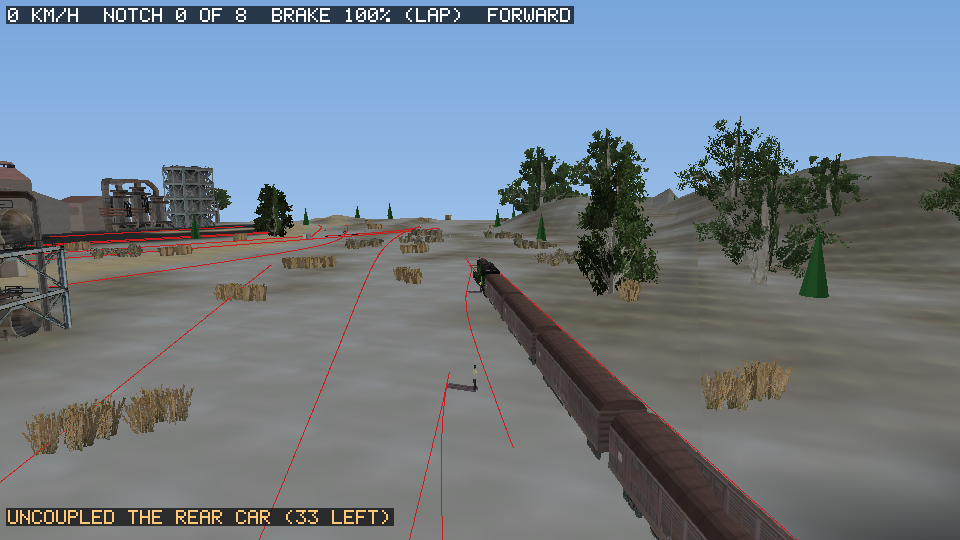
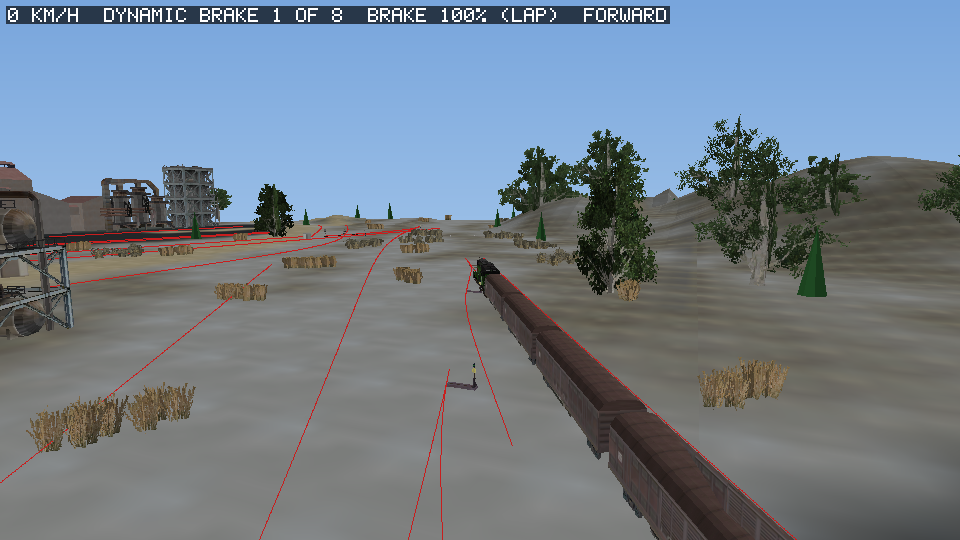
Coupling review: check ChatGPT's fixes; re-tune the documented coupling run and re-render its screenshots

diff --git a/ROADMAP.md b/ROADMAP.md
@@ -106,6 +106,7 @@ roadmap existed were filled in afterwards from the chat history.
 
 | Date | Overall | Change |
 |---|---:|---|
+| 2026-11-13 | 42% | No step change. Coupling review fixes (ChatGPT's findings and fixes, built and checked by me): a wagons-only train's borrowed traction is now a train-level aid only, so cars left behind stay unpowered and keep their real mass and brakes; contact is searched only from the end the train moves toward (a near train at the other end could hide one ahead); signal-block occupancy runs between the real buffer ends. 3 new regression tests; all 345 unit tests and the CLI tests pass with sanitizers. The documented coupling run was re-tuned (the wagons now coast further on their own resistance) and its screenshots re-rendered. |
 | 2026-11-13 | 42% | Step 13 (28% → 31%): **coupling**. Each train now keeps its cars (physics, and the model when readable); running into another train under 7 km/h couples it on in one line, turned round when it faces the other way (vehicles can be drawn turned round); faster is a collision that stops you at the contact. Contact is checked before each step over the distance about to be moved (a fast train could jump past a 0.6 m window between steps), at the trains' real buffer ends (the lead is the first car's middle). Stopped, U uncouples the rear car, which stands (the AI leaves it alone). On Midday Manifest: train 5 driven 300 m into train 19 couples 30 cars at 5 km/h. 3 coupling tests (all three ways of joining, uncoupling, turned-round drawing); 342 unit tests and the CLI tests pass. Screenshots `coupling.png`, `uncoupling.png`. Overall 42.60 + 15×0.03 = 43.05 ÷ 102 = 42.21% → 42%. |
 | 2026-11-13 | 42% | No step change. AI driver review fixes (ChatGPT's findings and fixes, checked and completed): full brake inside the 20 m margin; stops planned from the train's own brake force, grip and the steepest downhill on the way (not a fixed 0.35 m/s²); a red signal it reaches is remembered, and the train held until it clears, so an overrun can't power up again. My fix on top: the full-brake test compared the speed with the cruise-capped limit, so a train at cruise with any stop within 1.5 km braked hard; it now compares with the stopping envelope (regression test fails on the old condition), plus 1 m for the last time step. 6 `AiDriver` tests, all 338 unit tests and the CLI tests pass locally. Screenshot `ai-stopping.png`. |
 | 2026-11-13 | 42% | Step 13 (25% → 28%): **AI trains**. In drive mode the session's other trains are built like yours (own models, mass, enginespec) and drawn where they stand (they were not drawn in drive mode before); they take their places in the signal blocks. With `--ai` the port's simple driver runs them: up to 30 km/h on a middle notch, half that at caution, and braking to stop 20 m short of a signal at stop, a train ahead or a line end (its own rules, uncalibrated; the game's AI and session driver commands are not decoded). On Midday Manifest after a minute: 18 of 21 moving. **T** / `--watch N` makes the chase camera follow another train, with its speed and brake shown. Tests: hand-built line, stops short of a line end, a signal at stop and a train ahead. Screenshots `ai-trains.png`, `ai-yard.png`. Overall 42.15 + 15×0.03 = 42.60 ÷ 102 = 41.76% → 42%. |

diff --git a/docs/screenshots/README.md b/docs/screenshots/README.md
@@ -34,8 +34,8 @@ port can already read and draw.
 | ![](ai-trains.png) | **AI trains**: watching train 5 of Midday Manifest (`--watch`), run by the port's simple AI at 11 km/h and braking for a train ahead, past a standing freight; the third readout line is the watched train | `route-viewer --install … --session "Midday Manifest" --drive --ai --watch 3 --frames 60 --keys "1:z" --png` |
 | ![](ai-yard.png) | **The yard with AI trains**: watching another AI train as it runs through the yard | `… --drive --ai --watch 1 --frames 60 --keys "1:z" --png` |
 | ![](ai-stopping.png) | **An AI train stopping**: train 5 a minute later, at 5 km/h on full brake as it reaches its stop (the driver plans its stops from the brake it really has, grade and grip included) | `… --drive --ai --watch 3 --frames 120 --keys "1:z" --png` |
-| ![](coupling.png) | **Coupling**: Midday Manifest's train 5 (6 cars) driven up to train 19 and touching it at 5 km/h: the 30 cars couple on (36 now; the loco's notches come with them) | `route-viewer --install … --session "Midday Manifest" --drive --train 5 --frames 182 --keys "1:w,1:w,44:s,44:s,90:a,100:z,150:q,152:w,172:s" --png` |
-| ![](uncoupling.png) | **Uncoupling**: stopped, U three times leaves the three rearmost cars standing (33 left) | the same, plus `195:a,196:space,205:u,206:u,207:u,208:z`, 215 frames |
+| ![](coupling.png) | **Coupling**: Midday Manifest's train 5 (6 cars) driven up to train 19 and touching it at 4 km/h: the 30 cars couple on (36 now; the loco's notches come with them) | `route-viewer --install … --session "Midday Manifest" --drive --train 5 --frames 174 --keys "1:w,1:w,44:s,44:s,82:a,92:z,150:q,152:w,168:s" --png` |
+| ![](uncoupling.png) | **Uncoupling**: stopped, U three times leaves the three rearmost cars standing (33 left) | the same, plus `180:a,181:space,192:u,193:u,194:u,195:z`, 205 frames |
 | ![](signal-stop.png) | **A signal at stop**: the three-lamp signal `<kuid2:45324:24000:1>` shows its red lamp (from its own `signals`/`lights` config and `a.light` points) because a standing hopper train is in its block; signal turned to face along its track (a guess) | `route-viewer --install … --session "Midday Manifest" --at 338 -3869 --camera 322 -3852 6 338.2 -3868.9 4.5 --frames 1 --png` |
 | ![](near-clip-before.png) | **Before the near-plane fix**: a wagon right beside the camera showed only as dark slabs in the sky (its triangles reaching behind the camera were dropped) | same view as below, before 2026-11-13 |
 | ![](near-clip-after.png) | **After**: the renderer cuts such triangles at the near plane, so the whole blue boxcar is drawn | `route-viewer --install … --session "Midday Manifest" --at 338 -3869 --camera 343 -3905 4 338.2 -3868.9 4.5 --frames 1 --png` |
